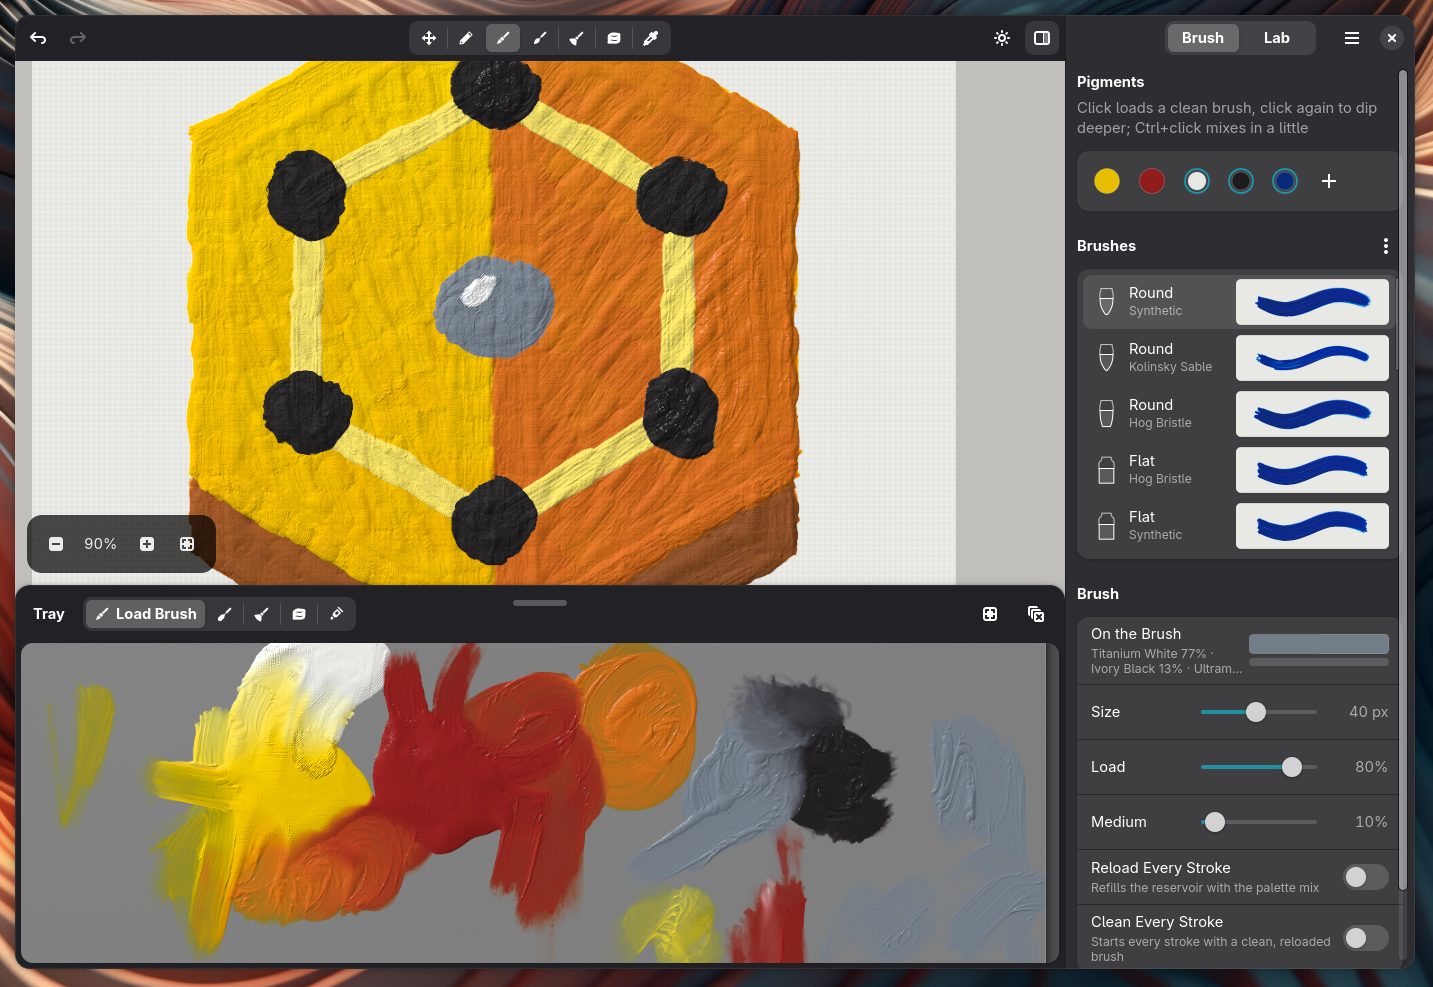
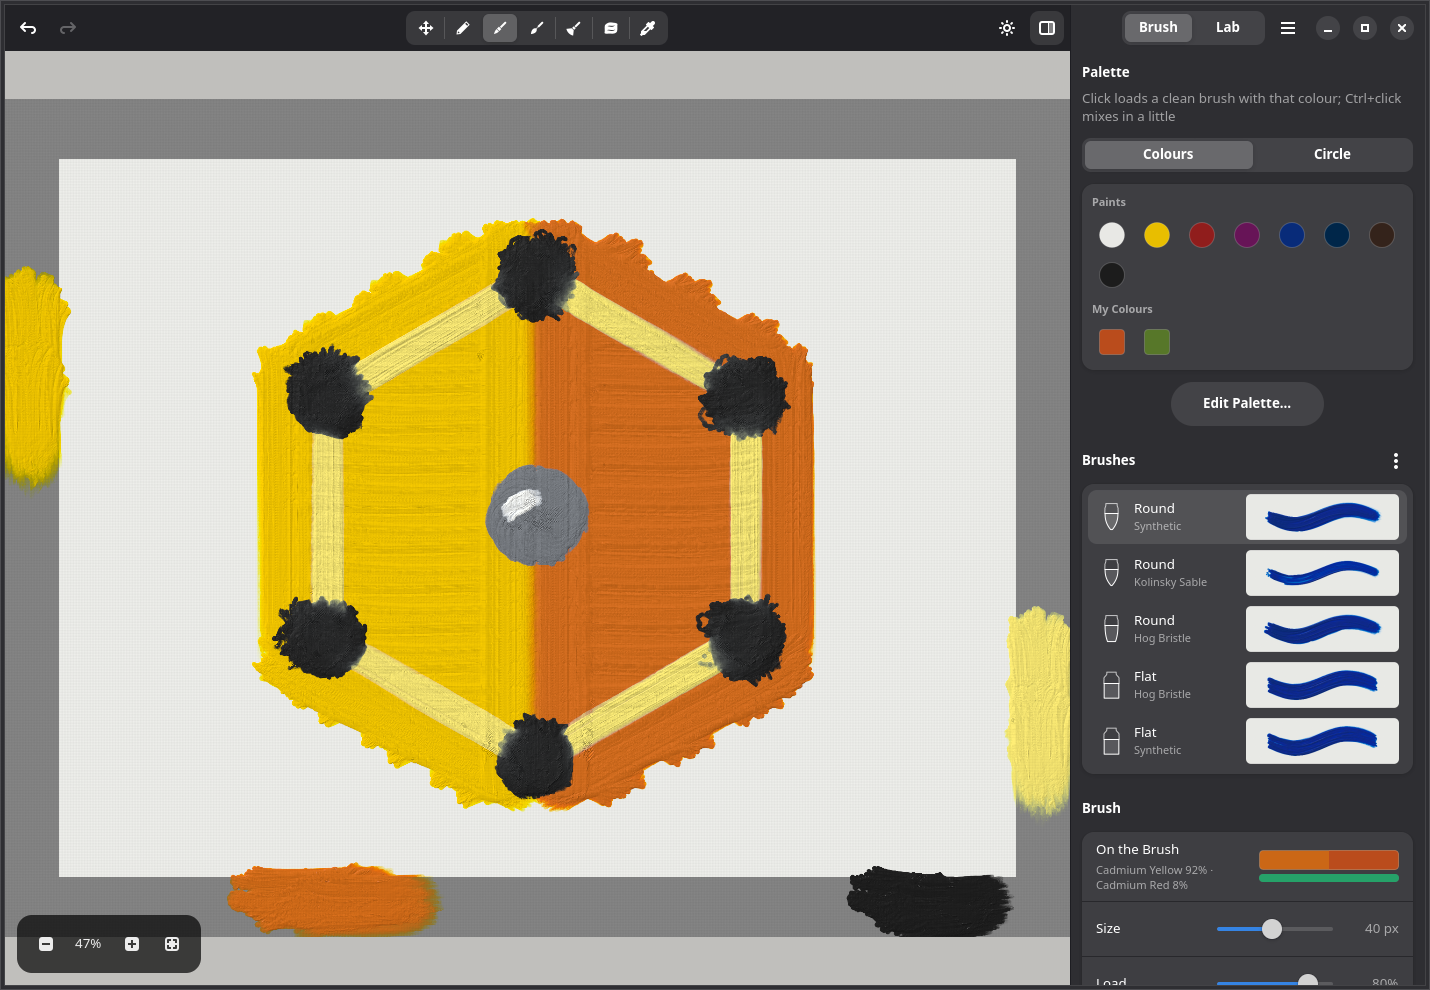
docs: retake the screenshots with the palette and brush editors

diff --git a/README.md b/README.md
@@ -16,7 +16,11 @@
   <a href="LICENSE"><img src="https://img.shields.io/github/license/marcelogm/cadmium" alt="License"></a>
 </p>
 
-![The Cadmium logo, painted in Cadmium](.github/images/screenshot.png)
+<p align="center">
+  <a href=".github/images/screenshot.png"><img src=".github/images/screenshot.png" width="32%" alt="The Cadmium logo, painted in Cadmium"></a>
+  <a href=".github/images/brush-editor.png"><img src=".github/images/brush-editor.png" width="32%" alt="The brush editor"></a>
+  <a href=".github/images/palette-editor.png"><img src=".github/images/palette-editor.png" width="32%" alt="Mixing paints in the Palette dialog"></a>
+</p>
 
 Paint stays wet on the canvas. The brush deposits, drags and mixes what is already there, the
 palette knife lays thick slabs and carves grooves, and colors mix like pigments, not light:
